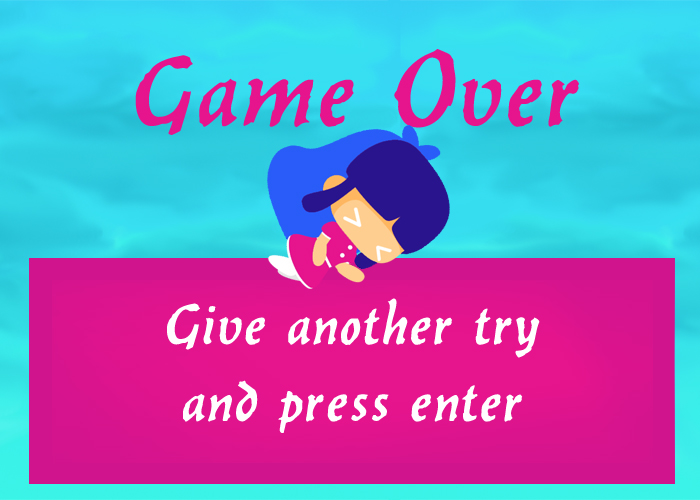
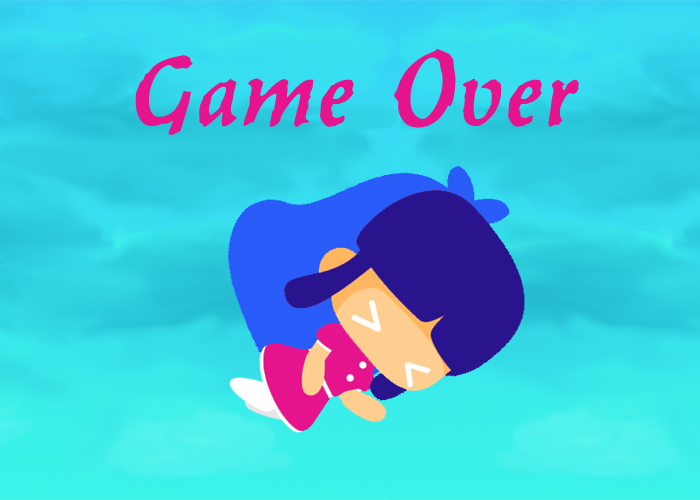
version 1.0

diff --git a/game.js b/game.js
@@ -6,6 +6,7 @@ class Game {
     this.click();
     this.key();
     this.sound = new Audio('/sound/BoxCat_Games_-_02_-_Mt_Fox_Shop.mp3');
+    this.audioOnOff = false
     
   }
 
@@ -30,7 +31,6 @@ class Game {
 
   restart() {
     this.openFullscreen();
-    
     this.sCanvasBackground = new ScanvasBackground(this);
     this.littleQueen = new SecondCanvasQueen(this);
     this.queen = new Queen(this);
@@ -81,10 +81,12 @@ class Game {
       this.paparazi.paint();
     } else if (!this.gameIsRunning && this.clickCounter === this.winningObjective) {
       context.drawImage(winImg, 0, 0, 700, 500);
+      ctx.drawImage(gameOverBar,0,0,700,75)
     } else if (!this.gameIsRunning) {
       context.drawImage(gameOverImg, 0, 0, 700, 500);
+      ctx.drawImage(gameOverBar,0,0,700,75)
     }
-    // TODO - MISSING WINNING CONDITION PAINTING
+   
   }
 
   logic() {
@@ -115,6 +117,23 @@ class Game {
     ctx.clearRect(0, 0, context.canvas.width, context.canvas.height);
   };
 
+
+
+  // activateAudioOnOffKey = () => {
+    
+  //   document.getElementById('.sound').onclick = function() {
+  //     if (this.audioOnOff === true) {
+  //       this.sound.pause();
+  //       this.audioOnOff = false;
+  //     } else {
+  //       this.sound.play();
+  //       this.audioOnOff = true;
+  //     }
+  //   };
+  // };
+   
+
+  
   audio(){
     if(!this.gameIsRunning){
       this.sound.pause()
@@ -122,9 +141,9 @@ class Game {
       this.sound.play()
 
     }
-    
-  
   }
+  
+   
   key() {
     window.addEventListener('keydown', event => {
       if (this.gameIsRunning) {

diff --git a/variables.js b/variables.js
@@ -4,15 +4,24 @@ const context = $canvas.getContext('2d');
 const $sCanvas = document.querySelector('.small-canvas');
 const ctx = $sCanvas.getContext('2d');
 
-// const $soundBotton = document.querySelector('.sound')
+const $soundBotton = document.querySelector('.sound');
 
 // const sound = new Sound();
 // const soundUrl = '/sound/BoxCat_Games_-_02_-_Mt_Fox_Shop.mp3';
 // sound.src = soundUrl;
 
-
 let $counter = document.querySelector('h1 span');
 let $counterF = document.querySelector('h1:nth-child(2) span');
+
+const gameOverBar = new Image();
+const gameOverBarURL = './images/try again.jpg'; //direction()
+gameOverBar.src = gameOverBarURL;
+
+const startBar = new Image();
+const startBarURL = './images/start button.jpg'; //direction()
+startBar.src = startBarURL;
+
+//
 
 const gameOverImg = new Image();
 const gameOverImgURL = './images/game over.jpg'; //direction()

diff --git a/main.js b/main.js
@@ -1,7 +1,7 @@
 function paintInst() {
   instImage.addEventListener('load', () => {
     context.drawImage(instImage, 0, 0, 700, 500);
-    ctx.drawImage(backgroundImage,0, 0)
+    ctx.drawImage(startBar, 0, 0);
   });
 }
 paintInst();
@@ -15,4 +15,3 @@ window.addEventListener('keydown', event => {
       break;
   }
 });
-

diff --git a/index.html b/index.html
@@ -12,7 +12,7 @@
     <section class="right">
       <h1><img src="/images/like.png" alt="" /><span>0</span></h1>
       <h1><img class="followers" src="/images/folow.png" alt="" /><span>0</span></h1>
-   
+   <!-- <button class="sound"></button> -->
   </div>
     </section>
     <section class="ajust">
